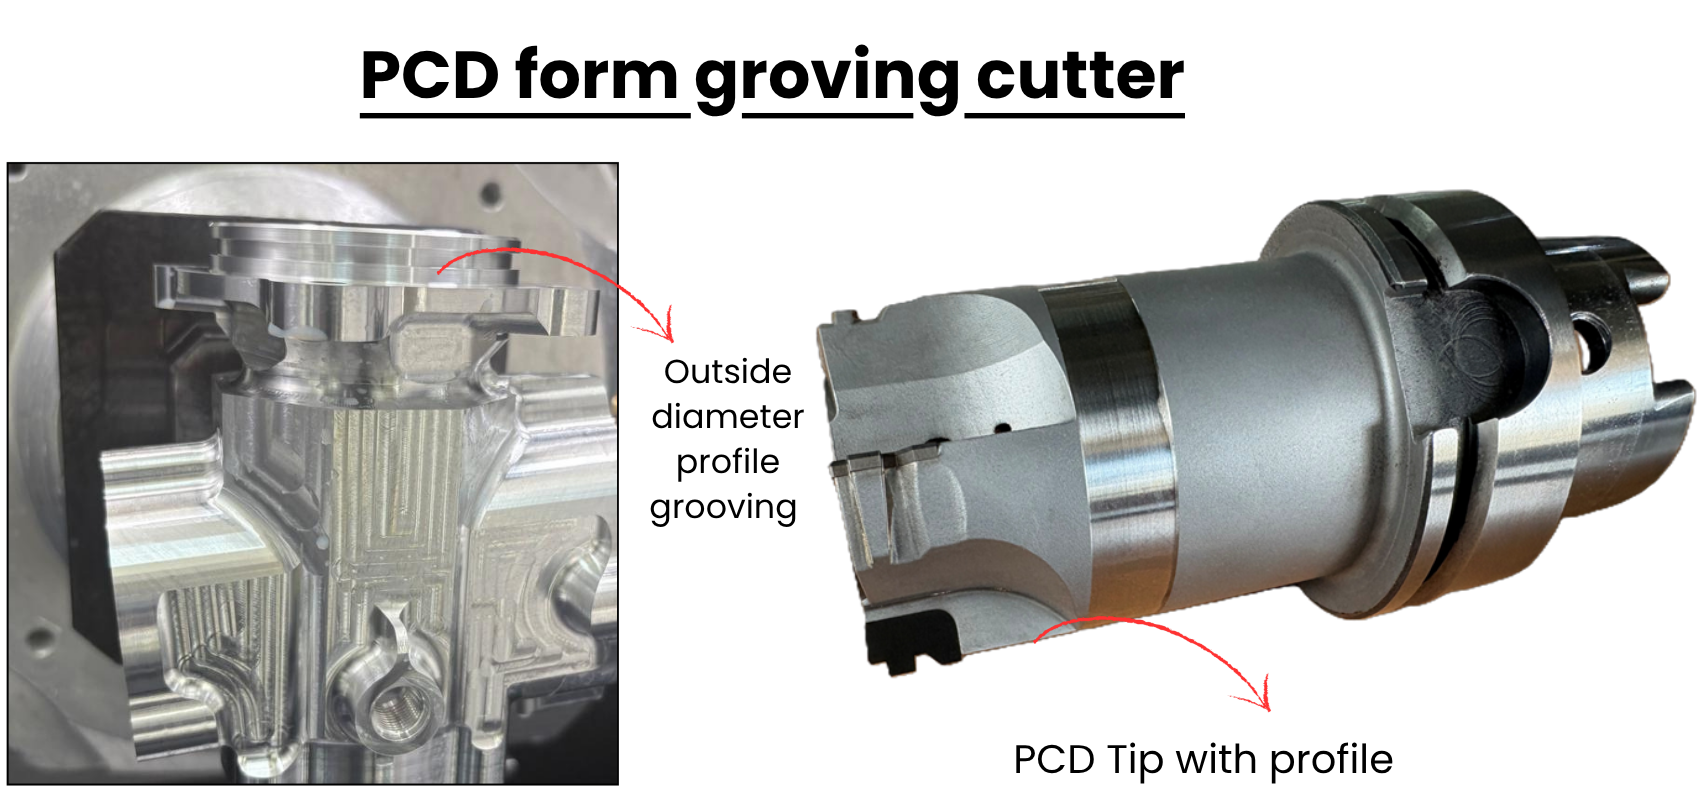
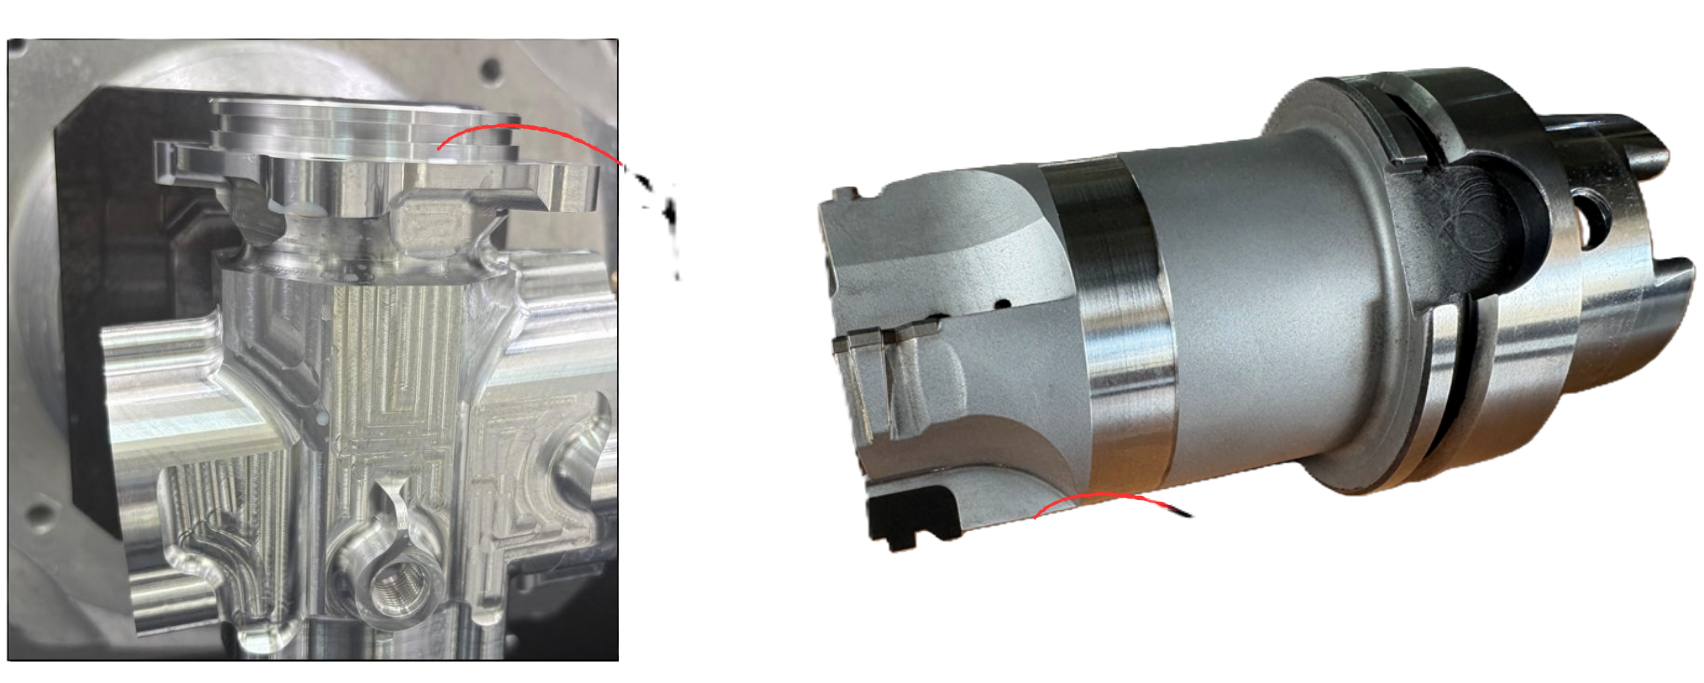
Products rearrangement and title updates

diff --git a/src/pages/Products.tsx b/src/pages/Products.tsx
@@ -189,12 +189,12 @@ const categories: Category[] = [
     ],
     subcategories: [
       {
-        id: 'pcd-reamers',
-        title: 'PCD Reamers',
-        blurb: 'Multi-step and single-step diamond reamers delivering 5–10× the life of carbide in non-ferrous machining.',
+        id: 'pcd-tools',
+        title: 'PCD Tools',
+        blurb: 'Multi-step and single-step diamond delivering 5–10× the life of carbide in non-ferrous machining.',
         products: [
           {
-            name: 'Multi-Step PCD Reamers',
+            name: 'Single-Step & Multi-Step PCD Tools',
             desc: 'Up to 5 diameters in a single tool — replaces multiple operations on aluminium cylinder heads.',
             image: `${import.meta.env.BASE_URL}22.png`,
             // specs: [
@@ -206,8 +206,8 @@ const categories: Category[] = [
             application: 'Aluminium cylinder heads, gearbox housings',
           },
           {
-            name: 'Injector Bore Reamers',
-            desc: 'Long-taper PCD reamers producing Ra 0.4 µm injector bores in cast iron and aluminium.',
+            name: 'Injector Bore PCD Tool',
+            desc: 'Solid carbide body with PCD tipped.Long taper finish 0.4 Ra and size consistence with visible high quality finish.',
             image: `${import.meta.env.BASE_URL}5.png`,
             // specs: [
             //   { label: 'Body', value: 'Solid carbide' },
@@ -215,7 +215,50 @@ const categories: Category[] = [
             //   { label: 'Surface finish', value: 'Ra 0.4 µm' },
             //   { label: 'Tip', value: 'PCD' },
             // ],
-            application: 'Diesel/petrol injector seats in cylinder heads',
+            application: ' Cy head injector bore for 4Wheeler',
+          },
+          {
+            name: 'Master Cylender- Main Bore PCD Tool',
+            desc: 'Solid carbide body with PCD. Challenge: Surface finish and clear from blow holes ',
+            image: `${import.meta.env.BASE_URL}28.png`,
+            // specs: [
+            //   { label: 'Body', value: 'Solid carbide' },
+            //   { label: 'Taper length', value: '90 – 180 mm' },
+            //   { label: 'Surface finish', value: 'Ra 0.4 µm' },
+            //   { label: 'Tip', value: 'PCD' },
+            // ],
+            application: 'Master main bore',
+          },
+        ],
+      },
+      {
+        id: 'pcd-reamers',
+        title: 'PCD Reamers',
+        blurb: 'Multi-step and single-step diamond reamers delivering 5–10× the life of carbide in non-ferrous machining.',
+        products: [
+          {
+            name: 'Two-Wheeler Shock Absorber',
+            desc: 'It is Aluminum Die Casting material. Used for Precision hole finishing (reaming) operation.',
+            image: `${import.meta.env.BASE_URL}38.png`,
+            // specs: [
+            //   { label: 'Steps', value: 'up to 5' },
+            //   { label: 'Connection', value: 'Module 70 / HSK' },
+            //   { label: 'Cutting speed', value: 'Vc = 210 m/min' },
+            //   { label: 'Tip', value: 'Z-4 PCD' },
+            // ],
+            application: 'Achieve high dimensional accuracy and superior surface finish for smooth piston movement',
+          },
+          {
+            name: 'PCD Step Three Step Reamer',
+            desc: 'It is Aluminum Die Casting material. Used for Precision hole finishing (reaming) operation.',
+            image: `${import.meta.env.BASE_URL}42.png`,
+            // specs: [
+            //   { label: 'Steps', value: 'up to 5' },
+            //   { label: 'Connection', value: 'Module 70 / HSK' },
+            //   { label: 'Cutting speed', value: 'Vc = 210 m/min' },
+            //   { label: 'Tip', value: 'Z-4 PCD' },
+            // ],
+            application: 'Aerospace component finish reaming',
           },
         ],
       },
@@ -228,6 +271,17 @@ const categories: Category[] = [
             name: 'PCD Profile Milling Cutters',
             desc: 'Custom-profile mills for boot grooves, seal channels and OD profiles in one finishing pass.',
             image: `${import.meta.env.BASE_URL}RMTT PPT.pdf (12).png`,
+            // specs: [
+            //   { label: 'Tips', value: 'Z-3 / Z-4 PCD' },
+            //   { label: 'Profile tolerance', value: '±0.01 mm' },
+            //   { label: 'Body', value: 'Steel' },
+            // ],
+            application: 'CV joint boot grooves, transmission seal channels',
+          },
+          {
+            name: 'Boot & Seal groove milling',
+            desc: 'Solid carbide body, Z-4 High quality PCD tips.It has internal coolant supplyand one shot finish. Highest seal groove surace and Consistent profile accuracy achieved',
+            image: `${import.meta.env.BASE_URL}36.png`,
             // specs: [
             //   { label: 'Tips', value: 'Z-3 / Z-4 PCD' },
             //   { label: 'Profile tolerance', value: '±0.01 mm' },
@@ -308,7 +362,7 @@ const categories: Category[] = [
       {
         id: 'bc-milling',
         title: 'Milling Cutters',
-        blurb: 'Large-diameter face, shell and slot milling cutters with brazed carbide tips.',
+        blurb: 'Large-diameter face, Engineered for hydraulic and excavator component machining,shell and slot milling cutters with brazed carbide tips.',
         products: [
           {
             name: 'Shell Milling Cutter',
@@ -319,12 +373,12 @@ const categories: Category[] = [
             //   { label: 'Inserts', value: 'Brazed carbide' },
             //   { label: 'Body', value: 'Heat-treated steel' },
             // ],
-            application: 'Hydraulic valve blocks, excavator castings',
+            application: 'Designed to deliver consistent performance and machining efficiency in demanding industrial applications:Hydraulic valve blocks, excavator castings',
           },
           {
             name: 'T-Slot Cutters',
             desc: 'Single and double-ended T-slot profile cutters for machine tool tables and fixturing slots.',
-            image: `${import.meta.env.BASE_URL}RMTT PPT.pdf (19).png`,
+            image: `${import.meta.env.BASE_URL}46.png`,
             // specs: [
             //   { label: 'Slot widths', value: '8 – 36 mm' },
             //   { label: 'Configuration', value: 'Single / double-ended' },
@@ -336,13 +390,13 @@ const categories: Category[] = [
       },
       {
         id: 'bc-reamers',
-        title: 'Reamers & Boring Tools',
+        title: 'Reamers',
         blurb: 'Multi-diameter reamers and brazed boring bars for large bores beyond solid carbide range.',
         products: [
           {
             name: 'Two-Step Reamer',
             desc: 'Multi-diameter bore finishing with brazed carbide tips — single tool replaces two reaming operations.',
-            image: `${import.meta.env.BASE_URL}RMTT PPT.pdf (18).png`,
+            image: `${import.meta.env.BASE_URL}45.png`,
             // specs: [
             //   { label: 'Steps', value: '2' },
             //   { label: 'Tolerance', value: 'H7' },
@@ -350,33 +404,24 @@ const categories: Category[] = [
             // ],
             application: 'Hydraulic cylinders, gearbox bores',
           },
-          {
-            name: 'Brazed Boring Bars',
-            desc: 'Fine boring bars with brazed carbide tips for precision hole finishing on large workpieces.',
-            // specs: [
-            //   { label: 'Diameter range', value: '25 – 150 mm' },
-            //   { label: 'Tolerance', value: 'IT6 achievable' },
-            //   { label: 'Body', value: 'Steel or carbide-reinforced' },
-            // ],
-            application: 'Engine blocks, large hydraulic bores',
-          },
+         
         ],
       },
       {
         id: 'bc-special',
-        title: 'Special Form & Multi-Grooving',
+        title: 'Special Form ',
         blurb: 'Customer-specific profiles brazed and ground to drawing — the workhorse of our brazed range.',
         products: [
-          {
-            name: 'Multi-Grooving Tool',
-            desc: 'Hydraulic manifold spool bore tool combining several grooves and chamfers — proven 70% cycle-time reduction.',
-            // specs: [
-            //   { label: 'Profiles', value: 'up to 8 in one pass' },
-            //   { label: 'Cycle time', value: '70% reduction' },
-            //   { label: 'Body', value: 'Steel + brazed carbide' },
-            // ],
-            application: 'Hydraulic manifold spool bores',
-          },
+          // {
+          //   name: 'Multi-Grooving Tool',
+          //   desc: 'Hydraulic manifold spool bore tool combining several grooves and chamfers — proven 70% cycle-time reduction.',
+          //   // specs: [
+          //   //   { label: 'Profiles', value: 'up to 8 in one pass' },
+          //   //   { label: 'Cycle time', value: '70% reduction' },
+          //   //   { label: 'Body', value: 'Steel + brazed carbide' },
+          //   // ],
+          //   application: 'Hydraulic manifold spool bores',
+          // },
           {
             name: 'Special Form Tools',
             desc: 'Customer-specific profile tools ground to drawing — bring us the part, we will engineer the tool.',
